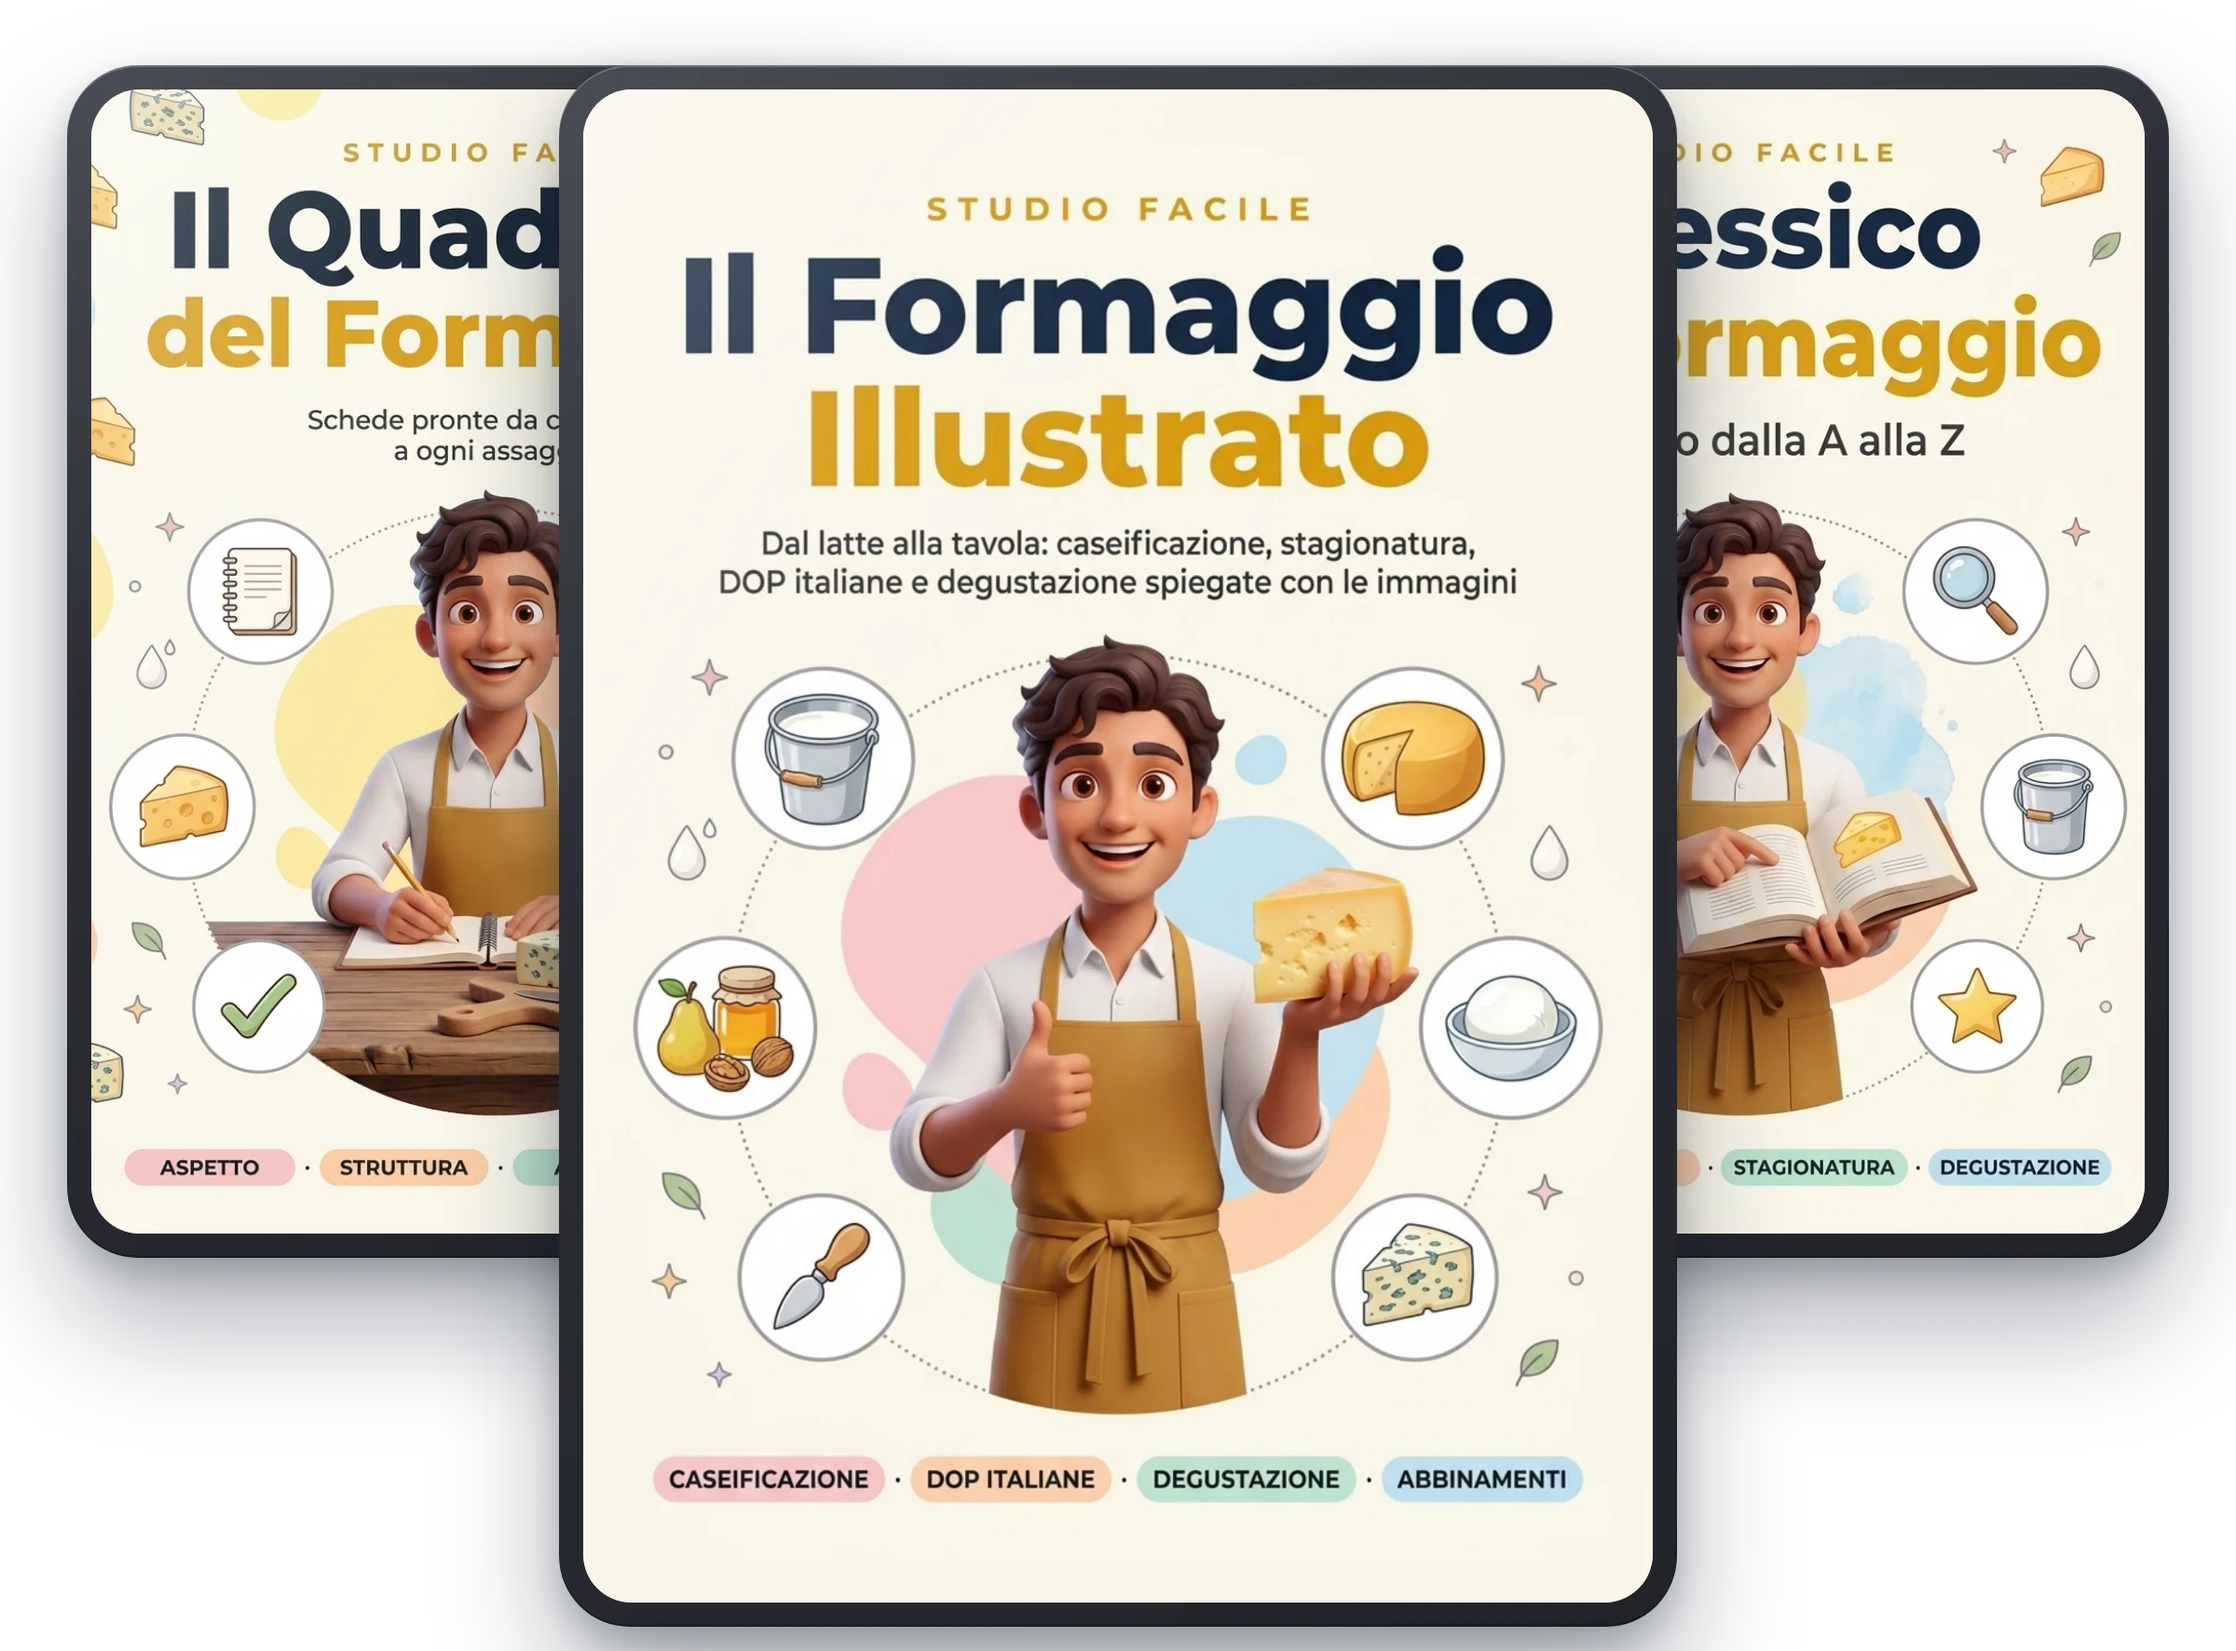
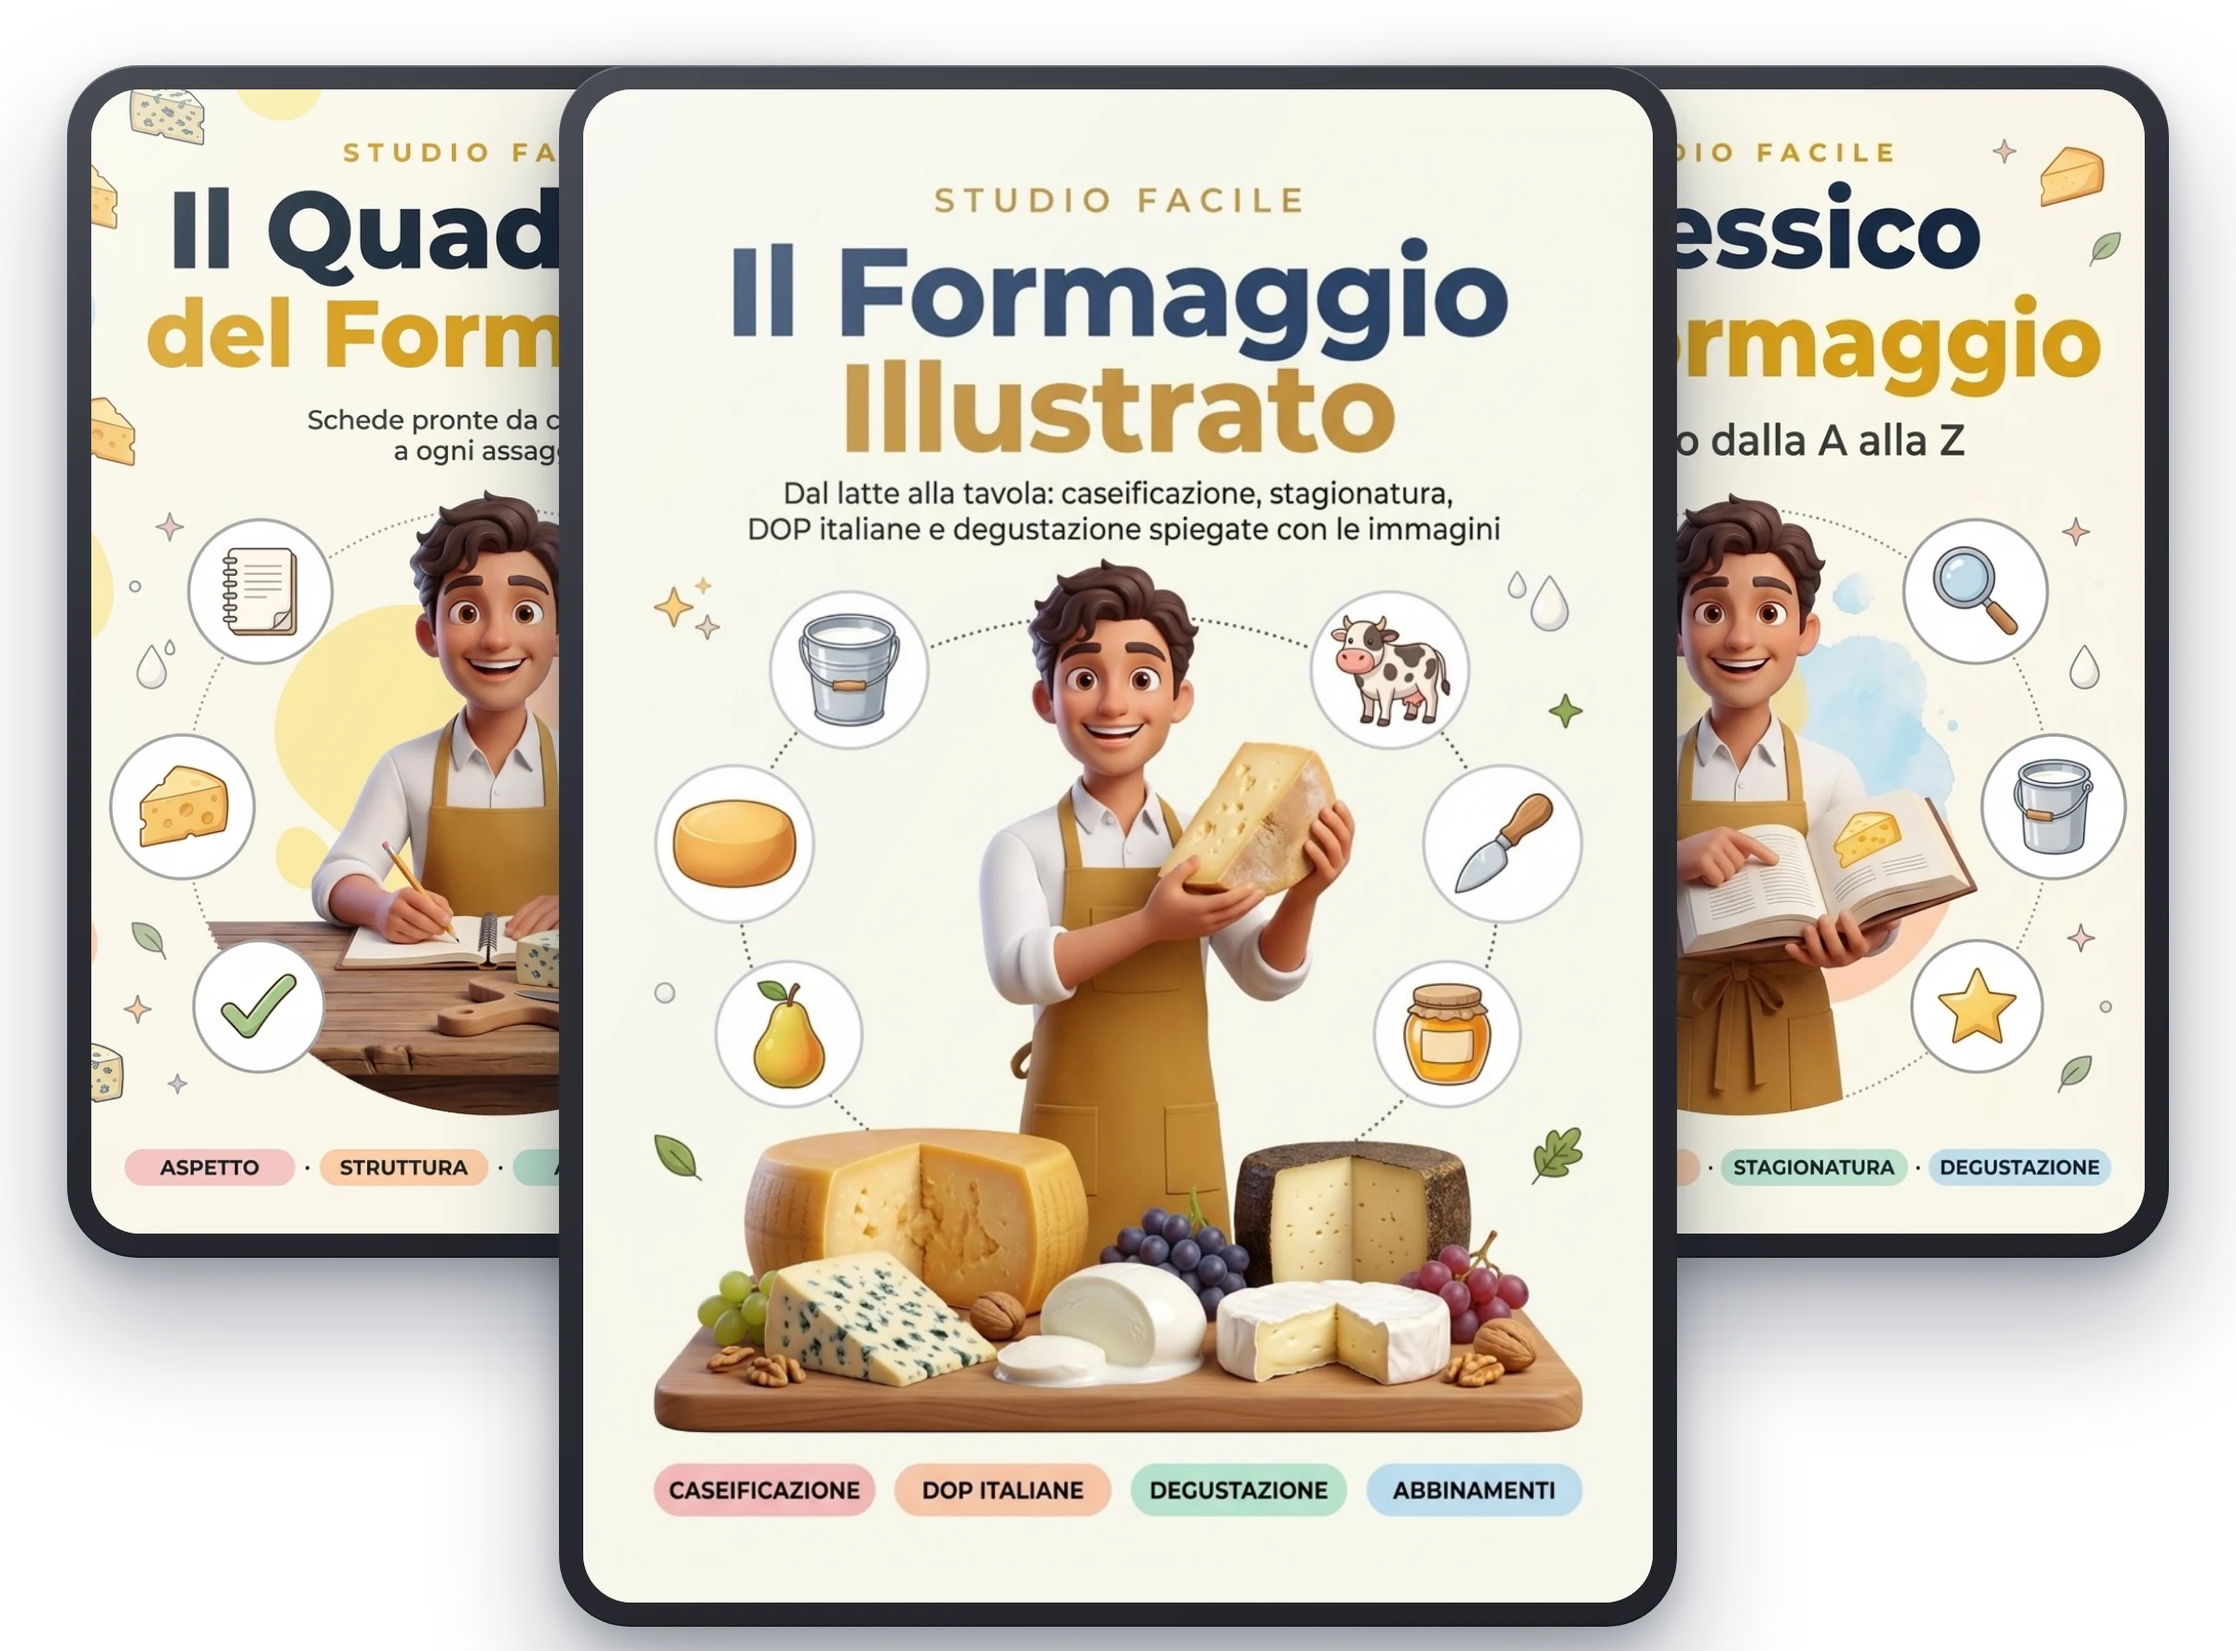
Landing formaggi IT: portada nueva con quesos grandes

Changed region(s): [[0.2812, 0.0931, 0.7188, 0.9312]]

diff --git a/it/formaggi.html b/it/formaggi.html
@@ -2153,7 +2153,7 @@
   <section class="hero">
     <div class="hero-content">
       <div class="hero-mockup">
-        <img src="https://czocbnyoenjbpxmcqobn.supabase.co/storage/v1/object/public/algoritmia-img/studiofacile/mockups/formaggi-it/hero.webp?v=a5e69032" alt="Il Formaggio Illustrato, con Il Quaderno del Formaggio e Il Lessico del Formaggio in regalo"
+        <img src="https://czocbnyoenjbpxmcqobn.supabase.co/storage/v1/object/public/algoritmia-img/studiofacile/mockups/formaggi-it/hero.webp?v=6bd726d1" alt="Il Formaggio Illustrato, con Il Quaderno del Formaggio e Il Lessico del Formaggio in regalo"
              width="1200" height="886" loading="eager" fetchpriority="high" decoding="async">
       </div>
       <h1>Il Modo Più Facile per Capire il Formaggio <mark>Con Ogni Argomento Spiegato da un Disegno!</mark></h1>
@@ -2401,7 +2401,7 @@
     <div class="container">
       <h2 class="text-center">Ecco Cosa Riceverai Acquistando Il Formaggio Illustrato:</h2>
       <div style="margin: 20px auto 28px;">
-        <img src="https://czocbnyoenjbpxmcqobn.supabase.co/storage/v1/object/public/algoritmia-img/studiofacile/mockups/formaggi-it/combo.webp?v=fc0d2bc9" alt="Il Formaggio Illustrato: mockup con pagine di esempio" width="1100" height="1620" loading="lazy" decoding="async" style="max-width: 480px; width: 100%; display: block; margin: 0 auto;">
+        <img src="https://czocbnyoenjbpxmcqobn.supabase.co/storage/v1/object/public/algoritmia-img/studiofacile/mockups/formaggi-it/combo.webp?v=fa8ec39f" alt="Il Formaggio Illustrato: mockup con pagine di esempio" width="1100" height="1620" loading="lazy" decoding="async" style="max-width: 480px; width: 100%; display: block; margin: 0 auto;">
       </div>
       <div class="topics-grid">
         <div class="topic-item">
@@ -2495,7 +2495,7 @@
 
       <!-- DECISION BOX -->
       <div class="decision-box" id="offerta">
-        <img src="https://czocbnyoenjbpxmcqobn.supabase.co/storage/v1/object/public/algoritmia-img/studiofacile/mockups/formaggi-it/hero.webp?v=a5e69032" alt="Il Formaggio Illustrato con i due volumi in regalo" class="db-mockup" width="1200" height="886" loading="lazy" decoding="async">
+        <img src="https://czocbnyoenjbpxmcqobn.supabase.co/storage/v1/object/public/algoritmia-img/studiofacile/mockups/formaggi-it/hero.webp?v=6bd726d1" alt="Il Formaggio Illustrato con i due volumi in regalo" class="db-mockup" width="1200" height="886" loading="lazy" decoding="async">
         <h3 class="db-title">Il Formaggio Illustrato + 2 Volumi in Regalo</h3>
         <ul class="db-checklist">
           <li><span class="db-check"><svg viewBox="0 0 24 24"><polyline points="20 6 9 17 4 12"/></svg></span>Il Formaggio Illustrato: 55 pagine illustrate<span class="db-price-val">58,20€</span></li>
